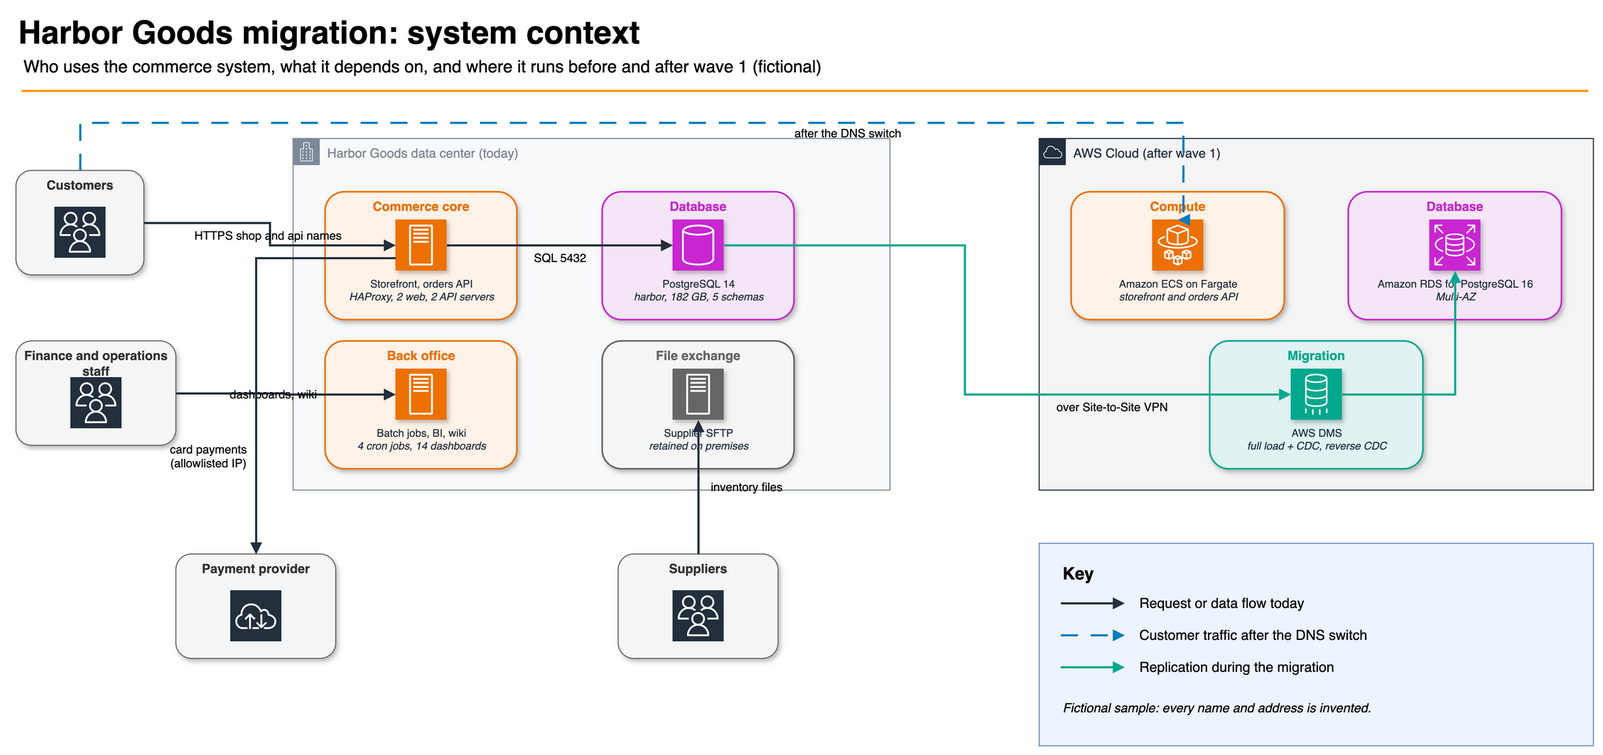
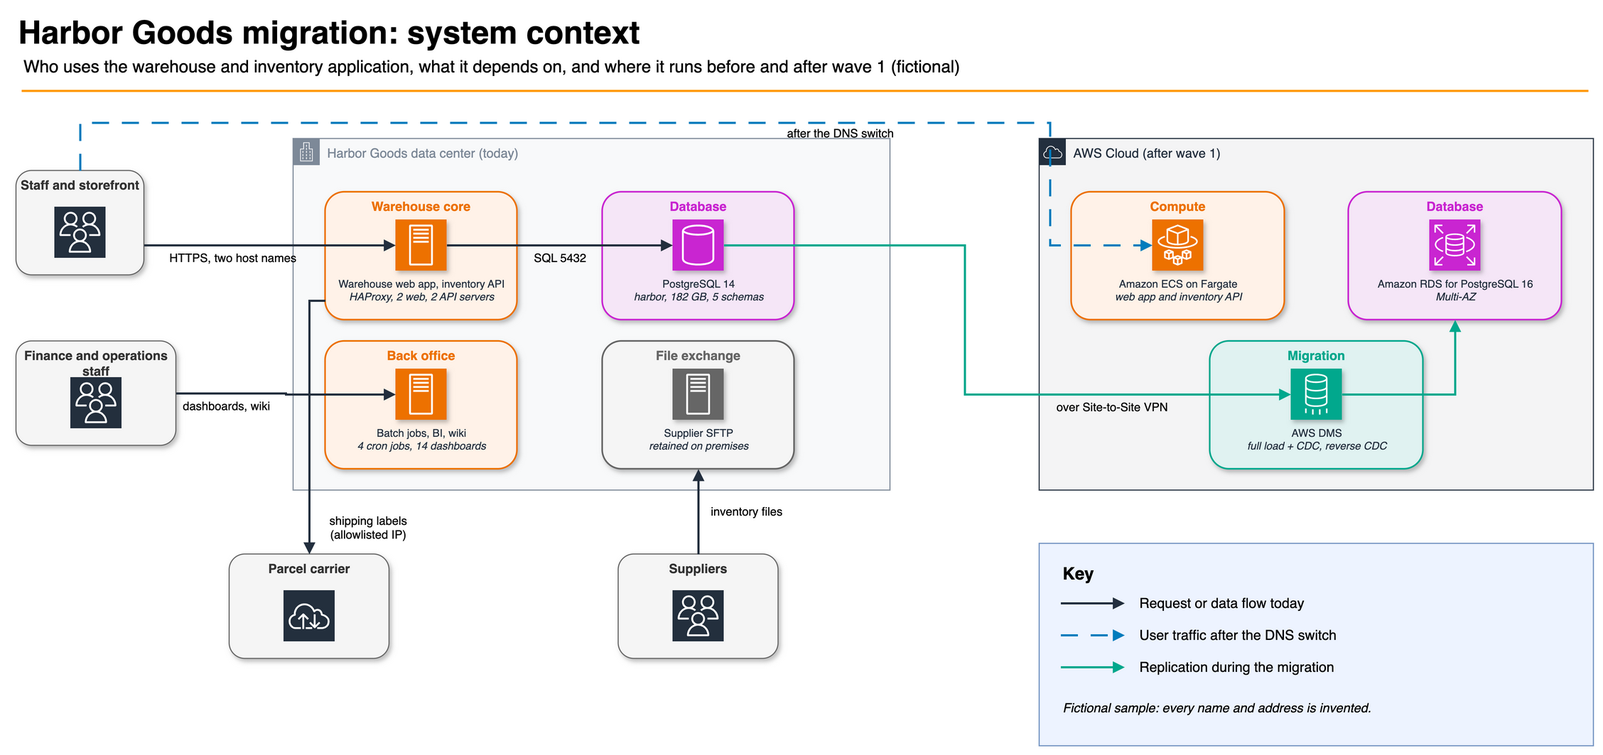
fix: migrate the warehouse and inventory application instead of the storefront
The storefront already runs on AWS in the portfolio scenario. Wave 1 now moves
the warehouse web app, the inventory API and PostgreSQL 14: renamed hosts,
applications, the shipping schema, the parcel carrier allowlist, smoke tests,
acceptance criteria and diagrams, with regenerated evidence. Production mock
ARNs use the production example account 111122223333, the Terraform floor is
>= 1.11.0, < 2.0.0, and the system context diagram no longer routes arrows
through labels.

diff --git a/tests/test_runbook.py b/tests/test_runbook.py
@@ -97,7 +97,7 @@ def test_missing_section_stops_the_other_rules(sandbox) -> None:
             "RUN-14",
             id="reverse-task-not-started",
         ),
-        pytest.param(RUNBOOK, "| P-04 | EXT-PAYMENTS: the", "| P-04 | The", "RUN-15", id="payment-allowlist-forgotten"),
+        pytest.param(RUNBOOK, "| P-04 | EXT-CARRIER: the", "| P-04 | The", "RUN-15", id="carrier-allowlist-forgotten"),
         pytest.param(
             "runbooks/acceptance-criteria.md",
             "| <= 30 min |",

diff --git a/runbooks/wave-1-cutover.md b/runbooks/wave-1-cutover.md
@@ -1,4 +1,4 @@
-# Wave 1 cutover runbook: Harbor Goods commerce core
+# Wave 1 cutover runbook: Harbor Goods warehouse core
 
 > Fictional sample. Harbor Goods, its servers, addresses and people are invented; account and network values are
 > AWS documentation examples. `scripts/check_runbook.py` validates this file's structure and its consistency with
@@ -6,9 +6,10 @@
 
 ## Scope
 
-Wave 1 moves the storefront (SRV-03, SRV-04), the orders API (SRV-05, SRV-06), the HAProxy pair (SRV-01, SRV-02)
-and the PostgreSQL primary (SRV-07) to AWS, and retires the streaming replica (SRV-08) at the end of hypercare.
-Customers reach `shop.example.com` and `api.example.com`; both names move together.
+Wave 1 moves the warehouse web app (SRV-03, SRV-04), the inventory API (SRV-05, SRV-06), the HAProxy pair (SRV-01,
+SRV-02) and the PostgreSQL primary (SRV-07) to AWS, and retires the streaming replica (SRV-08) at the end of hypercare.
+Warehouse staff and handheld scanners reach `warehouse.example.com`; the storefront, which already runs on AWS, reaches
+the inventory API at `api.example.com`. Both names move together.
 
 - Window: Sunday 00:30 to 04:30 US Central time. T-0 is 02:00, the start of the write freeze.
 - Write-freeze budget: 30 minutes (`max_write_freeze_minutes` in `data/synthetic/applications.csv`).
@@ -22,10 +23,10 @@ Customers reach `shop.example.com` and `api.example.com`; both names move togeth
 | --- | --- | --- |
 | CL | Cutover lead | Runs the bridge call, keeps the timeline, calls every go/no-go and rollback |
 | DBA | Database administrator | DMS tasks, validation queries, sequences, database roles |
-| APP | Application owner | Images, maintenance mode, smoke tests, payment checks |
+| APP | Application owner | Images, maintenance mode, smoke tests, carrier label checks |
 | NET | Network engineer | VPN, Route 53, load balancer |
 | OPS | Operations engineer | Scheduled jobs, batch and BI servers |
-| BIZ | Business approver | Approves the window and the go-live; owns customer communication |
+| BIZ | Business approver | Approves the window and the go-live; owns communication to warehouse staff and the storefront team |
 
 ## Prerequisites
 
@@ -36,14 +37,14 @@ Every prerequisite is closed, with its evidence linked in the change record, bef
 | P-01 | `example.com` is hosted in Route 53 and its delegation answers from the Route 53 name servers | NET | T-14d | `dig NS example.com` output |
 | P-02 | Both Site-to-Site VPN tunnels are up, and `aws dms test-connection` succeeds from the replication instance to SRV-07 | NET | T-14d | Tunnel status and test-connection result |
 | P-03 | The target environment is applied with default weights (onprem 100, aws 0), a fresh `terraform plan` shows no changes, and the `alb_dns_name` and `alb_zone_id` outputs are copied into the change record for the break-glass path | CL | T-10d | Plan output in the change record |
-| P-04 | EXT-PAYMENTS: the payment provider allowlists the NAT gateway addresses from `terraform output nat_public_ips` next to the current egress address | APP | T-10d | Provider confirmation |
+| P-04 | EXT-CARRIER: the parcel carrier allowlists the NAT gateway addresses from `terraform output nat_public_ips` next to the current egress address | APP | T-10d | Provider confirmation |
 | P-05 | EXT-NAS: the backup owner accepts RDS automated backups (14 days) plus the final dump in C-07 in place of the nightly NAS dump (JOB-03) | DBA | T-10d | Signed backup plan |
 | P-06 | `wal_level = logical` on SRV-07; `dms_user` exists on SRV-07 with REPLICATION and superuser (the reverse target sets `session_replication_role`) and on RDS with the `rds_replication` and `rds_superuser` roles; both DMS secrets hold host, port, username and password | DBA | T-10d | `SHOW wal_level`, secret versions present |
 | P-07 | Manual steps M-01 (schema from `pg_dump --schema-only`) and M-04 (roles, grants, application secret) are done on RDS | DBA | T-8d | Schema diff with zero differences |
 | P-08 | The forward task `harbor-wave1-full-load-cdc` started at T-7d, finished its full load and has streamed changes since | DBA | T-5d | `aws dms describe-replication-tasks` status |
 | P-09 | A full rehearsal on a restored copy measured the write freeze and closed every issue it found | CL | T-5d | Rehearsal log with timings |
 | P-10 | Web and API images are built, scanned and pinned by digest, and their smoke tests pass against RDS in read-only mode | APP | T-3d | CI run and smoke report |
-| P-11 | BIZ approves the window; the maintenance banner and customer notice are scheduled | BIZ | T-3d | Approved change record |
+| P-11 | BIZ approves the window; the maintenance banner and the notice to warehouse staff are scheduled | BIZ | T-3d | Approved change record |
 | P-12 | Dashboards and alarms exist for ALB 5xx and latency, RDS CPU and connections, and DMS `CDCLatencySource` and `CDCLatencyTarget` | NET | T-3d | Dashboard link |
 | P-13 | The rollback path was rehearsed: reverse task started and stopped on the rehearsal copy, weight flip tested on `cutover-test.example.com` | CL | T-3d | Rehearsal log |
 
@@ -54,14 +55,14 @@ procedure that applies if the step fails.
 
 | ID | T-offset | Duration (min) | Owner | Action | Verification | Rollback |
 | --- | --- | --- | --- | --- | --- | --- |
-| C-01 | T-72h | 15 | NET | Lower the TTL of `shop.example.com` and `api.example.com` from 3600 to 60 seconds | Authoritative answer shows TTL 60 | R-01 |
+| C-01 | T-72h | 15 | NET | Lower the TTL of `warehouse.example.com` and `api.example.com` from 3600 to 60 seconds | Authoritative answer shows TTL 60 | R-01 |
 | C-02 | T-48h | 20 | NET | Convert both names to weighted pairs with `runbooks/dns/convert-to-weighted.json`, import the onprem members, then apply the aws members at weight 0 | `terraform plan` shows no changes; both names still answer 203.0.113.x | R-01 |
 | C-03 | T-24h | 30 | DBA | Export the history of `audit.request_log` (excluded from DMS) with `pg_dump` to a private Amazon S3 bucket encrypted with SSE-KMS | Object row count equals `SELECT count(*)` on SRV-07 | R-01 |
 | C-04 | T-24h | 10 | CL | Go/no-go checkpoint 1: criteria G-01 and G-04 | Decision recorded in the change record | R-01 |
 | C-05 | T-90m | 10 | CL | Open the bridge call and confirm every role is present | Roll call logged | R-01 |
 | C-06 | T-80m | 5 | OPS | Disable JOB-01 and JOB-02 on SRV-09, JOB-03 on SRV-07 and JOB-04 on SRV-10 (comment out the crontab lines) | `crontab -l` shows the four lines commented | R-01 |
 | C-07 | T-70m | 55 | DBA | Take a final `pg_dump` of `harbor` to the backup NAS as the offline safety copy | Dump finishes; size within 5 percent of the last JOB-03 run | R-01 |
-| C-08 | T-30m | 5 | APP | Show the maintenance banner announcing a short read-only period | Banner visible on `shop.example.com` | R-01 |
+| C-08 | T-30m | 5 | APP | Show the maintenance banner announcing a short read-only period | Banner visible on `warehouse.example.com` | R-01 |
 | C-09 | T-10m | 10 | CL | Go/no-go checkpoint 2: criteria G-02, G-03 and G-05 | Decision recorded; BIZ confirms | R-01 |
 | C-10 | T-0 | 2 | APP | Start the write freeze: HAProxy serves the maintenance page for both names, and the API stops on SRV-05 and SRV-06 | V-01 returns 0 application sessions | R-02 |
 | C-11 | T+02m | 3 | DBA | Confirm no writes reach SRV-07 and record `pg_current_wal_lsn()` | V-01 returns 0; LSN written in the log | R-02 |
@@ -69,12 +70,12 @@ procedure that applies if the step fails.
 | C-13 | T+08m | 2 | DBA | Stop the forward task `harbor-wave1-full-load-cdc` and drop its replication slot on SRV-07, so SRV-07 does not keep WAL for seven days | Task status `stopped`; `pg_replication_slots` on SRV-07 shows no DMS slot | R-02 |
 | C-14 | T+10m | 4 | DBA | Run manual steps M-02 (reset sequences with V-05), M-05 (copy the newest `audit.request_log` rows) and M-03 (`ANALYZE`) on RDS | V-05 returns no sequence behind its table | R-02 |
 | C-15 | T+14m | 4 | DBA | Run validation queries V-02, V-03 and V-04 on SRV-07 and RDS and compare | Every count and checksum matches | R-02 |
-| C-16 | T+18m | 2 | DBA | Start the reverse task `harbor-wave1-reverse-cdc` with no start position, before any customer write lands on AWS; DMS creates its slot at the current RDS position, and writes are frozen, so nothing is missed | Task status `running`; V-07 returns 0 | R-02 |
+| C-16 | T+18m | 2 | DBA | Start the reverse task `harbor-wave1-reverse-cdc` with no start position, before any user write lands on AWS; DMS creates its slot at the current RDS position, and writes are frozen, so nothing is missed | Task status `running`; V-07 returns 0 | R-02 |
 | C-17 | T+20m | 4 | APP | Run the smoke tests against the load balancer with `curl --resolve` for both names, including one test order that is then cancelled | 12 of 12 tests in `runbooks/smoke-tests.md` pass | R-02 |
 | C-18 | T+24m | 1 | CL | Go/no-go checkpoint 3: criteria G-06, G-07 and G-08 | Decision recorded; BIZ confirms go-live | R-02 |
 | C-19 | T+25m | 2 | NET | DNS switch: apply `traffic_weights = { onprem = 0, aws = 100 }` (see DNS switch) | Both names resolve to the load balancer; freeze ends | R-03 |
 | C-20 | T+27m | 3 | OPS | Repoint SRV-09 and SRV-10 to the RDS endpoint, re-enable JOB-01 and JOB-02, resume JOB-04; JOB-03 stays off for good | Test connections from SRV-09 and SRV-10 succeed over the VPN | R-03 |
-| C-21 | T+30m | 30 | APP | Watch the first 30 minutes of live traffic: errors, latency, orders and payments | Rollback triggers T-05 and T-06 stay below their thresholds | R-03 |
+| C-21 | T+30m | 30 | APP | Watch the first 30 minutes of live traffic: errors, latency, orders and shipping labels | Rollback triggers T-05 and T-06 stay below their thresholds | R-03 |
 | C-22 | T+60m | 5 | CL | Remove the banner, announce go-live and start seven days of hypercare | Announcement sent | R-03 |
 | C-23 | T+7d | 30 | CL | Close hypercare: confirm the acceptance criteria, stop the reverse task, delete the DMS resources and schedule the decommissioning of SRV-01 to SRV-08 | Every criterion in `runbooks/acceptance-criteria.md` met | none |
 
@@ -112,9 +113,9 @@ terraform output active_target   # aws
 Check from outside the data center:
 
 ```bash
-dig +short shop.example.com
+dig +short warehouse.example.com
 dig +short api.example.com
-curl -sS -o /dev/null -w '%{http_code}\n' https://shop.example.com/healthz
+curl -sS -o /dev/null -w '%{http_code}\n' https://warehouse.example.com/healthz
 ```
 
 Break-glass path, if Terraform is unavailable: render `runbooks/dns/change-batch.json.tpl` for the target side
@@ -141,7 +142,7 @@ SRV-07 and RDS and compare the output with `diff`.
 | --- | --- | --- | --- |
 | V-01 | Application sessions still connected | SRV-07 | 0 rows |
 | V-02 | Exact row count of every migrated table | SRV-07 and RDS | Identical output |
-| V-03 | Checksum of the last seven days of orders and order lines | SRV-07 and RDS | Identical output |
+| V-03 | Checksum of the last seven days of fulfillment orders and order lines | SRV-07 and RDS | Identical output |
 | V-04 | Highest order ID and newest order timestamp | SRV-07 and RDS | Identical output |
 | V-05 | Sequences whose value is behind the highest ID in their table | RDS | 0 rows |
 | V-06 | Newest order on each side after the switch | SRV-07 and RDS | Same order ID within 60 s |
@@ -158,14 +159,14 @@ Any trigger that fires starts the listed procedure. CL may roll back without a t
 | T-03 | Smoke tests fail | < 12 of 12 passed | Smoke test report | During the freeze | R-02 |
 | T-04 | Write freeze overruns | > 30 min since C-10 without a DNS switch | Bridge log | During the freeze | R-02 |
 | T-05 | Error rate after the switch | ALB 5xx > 2 percent for 5 min | CloudWatch alarm | Hypercare | R-03 |
-| T-06 | Payments fail after the switch | success rate < 95 percent for 10 min | Payment dashboard | Hypercare | R-03 |
+| T-06 | Shipping labels fail after the switch | label success rate < 95 percent for 10 min | Carrier API dashboard | Hypercare | R-03 |
 | T-07 | Orders lost or duplicated | >= 1 confirmed case | V-06 and support tickets | Hypercare | R-03 |
 
 ## Rollback procedures
 
 ### R-01 Abort before the write freeze
 
-Decision owner: CL. Time to complete: 15 min. Customers see no change.
+Decision owner: CL. Time to complete: 15 min. Users see no change.
 
 1. Announce the no-go on the bridge and record the failed criterion.
 2. OPS re-enables JOB-01, JOB-02, JOB-03 and JOB-04; APP removes the banner if it is showing.
@@ -174,7 +175,7 @@ Decision owner: CL. Time to complete: 15 min. Customers see no change.
 
 ### R-02 Roll back during the write freeze
 
-Decision owner: CL. Time to complete: 15 min. No customer has written to AWS yet.
+Decision owner: CL. Time to complete: 15 min. No user has written to AWS yet.
 
 1. DBA stops the reverse task if C-16 started it: `aws dms stop-replication-task` on `harbor-wave1-reverse-cdc`.
 2. NET confirms `terraform output active_target` still returns `onprem`; if C-19 ran, use R-03 instead.
@@ -185,7 +186,7 @@ Decision owner: CL. Time to complete: 15 min. No customer has written to AWS yet
 
 ### R-03 Roll back after the DNS switch
 
-Decision owner: CL with BIZ. Time to complete: 25 min, within the 30-minute RTO. Orders placed on AWS are kept,
+Decision owner: CL with BIZ. Time to complete: 25 min, within the 30-minute RTO. Orders written on AWS are kept,
 because the reverse task has copied them to SRV-07.
 
 1. APP puts AWS in maintenance: a priority-1 listener rule on the HTTPS listener returns a fixed 503 page.

diff --git a/runbooks/smoke-tests.md b/runbooks/smoke-tests.md
@@ -1,28 +1,28 @@
 # Smoke tests for the wave 1 cutover
 
 Run at C-17, before the DNS switch, against the load balancer. `curl --resolve` sends each request to the
-load balancer while keeping the real host name, so TLS and host routing are tested as customers will see them:
+load balancer while keeping the real host name, so TLS and host routing are tested as users will see them:
 
 ```bash
 ALB_IP="$(dig +short "$(terraform output -raw alb_dns_name)" | head -1)"
-curl -sS --resolve "shop.example.com:443:$ALB_IP" https://shop.example.com/healthz
+curl -sS --resolve "warehouse.example.com:443:$ALB_IP" https://warehouse.example.com/healthz
 ```
 
-The test customer `smoke-test@example.com` exists in production, is excluded from reporting, and its credentials live in
-Secrets Manager. Go/no-go criterion
-G-07 requires every test to pass.
+The service account `smoke-test` exists in production, is excluded from reporting, and its credentials live in Secrets
+Manager. Its test orders carry a test flag, so they are never released to the warehouse floor. Go/no-go criterion G-07
+requires every test to pass.
 
 | ID | Host | Test | Pass condition |
 | --- | --- | --- | --- |
-| S-01 | shop.example.com | `GET /healthz` | HTTP 200 |
-| S-02 | shop.example.com | `GET /` | HTTP 200 and the page title contains "Harbor Goods" |
-| S-03 | shop.example.com | `GET /catalog/bestsellers` | HTTP 200 and at least 20 products |
-| S-04 | shop.example.com | `http://` request on port 80 | HTTP 301 to the same path over HTTPS |
+| S-01 | warehouse.example.com | `GET /healthz` | HTTP 200 |
+| S-02 | warehouse.example.com | `GET /` | HTTP 200 and the page title contains "Harbor Goods" |
+| S-03 | warehouse.example.com | `GET /locations?zone=A` | HTTP 200 and at least 20 bin locations |
+| S-04 | warehouse.example.com | `http://` request on port 80 | HTTP 301 to the same path over HTTPS |
 | S-05 | api.example.com | `GET /actuator/health` | HTTP 200 and `"status":"UP"` |
-| S-06 | api.example.com | `GET /v1/products/HG-10001` | HTTP 200 and the price equals the value on SRV-07 |
-| S-07 | api.example.com | Sign in as the test customer | HTTP 200 and a session token |
-| S-08 | api.example.com | `GET /v1/customers/me/orders` for the test customer | HTTP 200 and the same order count as on SRV-07 |
-| S-09 | api.example.com | Place a test order paid with the test customer's store credit (no card is charged) | HTTP 201 and a new order ID above the V-04 maximum |
-| S-10 | api.example.com | Reach the payment provider's status endpoint from a task, through the NAT addresses | HTTP 200, proving the allowlist from P-04 is in place |
+| S-06 | api.example.com | `GET /v1/stock/HG-10001` | HTTP 200 and the on-hand quantity equals the value on SRV-07 |
+| S-07 | api.example.com | Sign in as the `smoke-test` service account | HTTP 200 and a session token |
+| S-08 | api.example.com | `GET /v1/orders?client=smoke-test` | HTTP 200 and the same order count as on SRV-07 |
+| S-09 | api.example.com | Create a test fulfillment order for one unit of `HG-10001` | HTTP 201 and a new order ID above the V-04 maximum |
+| S-10 | api.example.com | Reach the parcel carrier's status endpoint from a task, through the NAT addresses | HTTP 200, proving the allowlist from P-04 is in place |
 | S-11 | api.example.com | Cancel the test order | HTTP 200 and status "cancelled" |
 | S-12 | both | TLS certificate | Issued by Amazon, valid for both names, not expiring within 30 days |

diff --git a/runbooks/acceptance-criteria.md b/runbooks/acceptance-criteria.md
@@ -5,12 +5,12 @@ BIZ signs. Baselines come from the discovery period on the data center.
 
 | ID | Area | Criterion | Threshold | Measured by | When |
 | --- | --- | --- | --- | --- | --- |
-| A-01 | Availability | Synthetic checks on `shop.example.com` and `api.example.com` succeed | >= 99.9 percent of checks over 7 days | CloudWatch Synthetics canary every 5 min | Hypercare |
-| A-02 | Latency | Orders API p95 target response time | <= 350 ms (baseline 310 ms on premises) | ALB `TargetResponseTime` p95, daily | Hypercare |
+| A-01 | Availability | Synthetic checks on `warehouse.example.com` and `api.example.com` succeed | >= 99.9 percent of checks over 7 days | CloudWatch Synthetics canary every 5 min | Hypercare |
+| A-02 | Latency | Inventory API p95 target response time | <= 350 ms (baseline 310 ms on premises) | ALB `TargetResponseTime` p95, daily | Hypercare |
 | A-03 | Errors | Share of requests answered with 5xx | < 0.5 percent per day | ALB `HTTPCode_Target_5XX_Count` over `RequestCount` | Hypercare |
-| A-04 | Data | Rows and checksums at cutover, and orders lost or duplicated since | = 0 differences in V-02 to V-04; = 0 confirmed cases | Validation log and support tickets | C-15 and hypercare |
+| A-04 | Data | Rows and checksums at cutover, and fulfillment orders lost or duplicated since | = 0 differences in V-02 to V-04; = 0 confirmed cases | Validation log and support tickets | C-15 and hypercare |
 | A-05 | Downtime | Actual write freeze from C-10 to C-19 | <= 30 min | Bridge log | Cutover night |
-| A-06 | Payments | Payment authorization success rate | >= 98 percent per day (baseline 98.6 percent) | Payment provider dashboard | Hypercare |
+| A-06 | Shipping labels | Carrier label request success rate | >= 98 percent per day (baseline 98.6 percent) | Carrier API dashboard | Hypercare |
 | A-07 | Recovery | Point-in-time restore of RDS to a scratch instance | <= 60 min to a usable instance, then deleted | Restore drill log | Day 3 of hypercare |
 | A-08 | Batch | JOB-01 and JOB-02 finish over the hybrid link | = 3 of 3 nights; row-count difference <= 1 percent of baseline | Job logs on SRV-09 | Hypercare |
 | A-09 | Security | Database exposure and scanner results | = 0 public endpoints on RDS; = 0 failed Checkov checks | `make verify`, AWS Config rule `rds-instance-public-access-check` | C-23 |

diff --git a/evidence/E-01-inventory.md b/evidence/E-01-inventory.md
@@ -6,17 +6,17 @@
 - Servers: 12 across 8 applications.
 - Capacity: 72 vCPU, 216 GB RAM, 3320 GB disk.
 - Database: PostgreSQL 14.11, 182.0 GB in 5 schemas, 55 tables.
-- Dependencies: 23 connections, 5 outside parties (EXT-CUSTOMERS, EXT-NAS, EXT-PAYMENTS, EXT-STAFF, EXT-SUPPLIERS).
+- Dependencies: 23 connections, 5 outside parties (EXT-CARRIER, EXT-NAS, EXT-STAFF, EXT-SUPPLIERS, EXT-USERS).
 - Scheduled jobs: 4; public or internal DNS names: 4.
 
 | Server | Host | App | Software | vCPU | RAM GB | CPU p95 | Mem p95 |
 | --- | --- | --- | --- | --- | --- | --- | --- |
 | SRV-01 | hg-lb-01 | APP-EDGE | HAProxy 2.4 | 2 | 4 | 14% | 31% |
 | SRV-02 | hg-lb-02 | APP-EDGE | HAProxy 2.4 | 2 | 4 | 9% | 30% |
-| SRV-03 | hg-web-01 | APP-STORE | nginx 1.24 + Node.js 20 storefront | 4 | 8 | 18% | 22% |
-| SRV-04 | hg-web-02 | APP-STORE | nginx 1.24 + Node.js 20 storefront | 4 | 8 | 17% | 21% |
-| SRV-05 | hg-api-01 | APP-ORDERS | Java 17 Spring Boot orders API | 8 | 16 | 20% | 30% |
-| SRV-06 | hg-api-02 | APP-ORDERS | Java 17 Spring Boot orders API | 8 | 16 | 19% | 29% |
+| SRV-03 | hg-web-01 | APP-WEB | nginx 1.24 + Node.js 20 warehouse web app | 4 | 8 | 18% | 22% |
+| SRV-04 | hg-web-02 | APP-WEB | nginx 1.24 + Node.js 20 warehouse web app | 4 | 8 | 17% | 21% |
+| SRV-05 | hg-api-01 | APP-API | Java 17 Spring Boot inventory API | 8 | 16 | 20% | 30% |
+| SRV-06 | hg-api-02 | APP-API | Java 17 Spring Boot inventory API | 8 | 16 | 19% | 29% |
 | SRV-07 | hg-db-01 | APP-DB | PostgreSQL 14.11 | 16 | 64 | 38% | 80% |
 | SRV-08 | hg-db-02 | APP-DB | PostgreSQL 14.11 streaming replica | 16 | 64 | 12% | 58% |
 | SRV-09 | hg-batch-01 | APP-BATCH | cron jobs (Python 3.9 and shell) | 4 | 8 | 6% | 25% |

diff --git a/infra/terraform/modules/app/README.md b/infra/terraform/modules/app/README.md
@@ -1,8 +1,8 @@
 # Module: app
 
-Application Load Balancer and two ECS Fargate services (the storefront and the orders API) that replace the HAProxy
-pair and four application servers. Port 80 redirects to HTTPS, tasks run in private subnets as a non-root user on a
-read-only file system, images must be pinned by digest, and deployments roll back on their own. Tests:
+Application Load Balancer and two ECS Fargate services (the warehouse web app and the inventory API) that replace the
+HAProxy pair and four application servers. Port 80 redirects to HTTPS, tasks run in private subnets as a non-root user
+on a read-only file system, images must be pinned by digest, and deployments roll back on their own. Tests:
 `tests/app.tftest.hcl`.
 
 <!-- BEGIN_TF_DOCS -->
@@ -10,7 +10,7 @@ read-only file system, images must be pinned by digest, and deployments roll bac
 
 | Name | Version |
 | ---- | ------- |
-| terraform | >= 1.9.0 |
+| terraform | >= 1.11.0, < 2.0.0 |
 | aws | >= 6.0, < 7.0 |
 
 ## Providers

diff --git a/infra/terraform/modules/network/README.md b/infra/terraform/modules/network/README.md
@@ -10,7 +10,7 @@ Tests: `tests/network.tftest.hcl`.
 
 | Name | Version |
 | ---- | ------- |
-| terraform | >= 1.9.0 |
+| terraform | >= 1.11.0, < 2.0.0 |
 | aws | >= 6.0, < 7.0 |
 
 ## Providers
@@ -70,7 +70,7 @@ Tests: `tests/network.tftest.hcl`.
 | ---- | ----------- |
 | app\_subnet\_ids | Application subnets, one per Availability Zone (ECS tasks and the DMS replication instance). |
 | data\_subnet\_ids | Data subnets without an internet route, one per Availability Zone (RDS). |
-| nat\_public\_ips | Egress addresses the payment provider must allowlist before cutover. |
+| nat\_public\_ips | Egress addresses the parcel carrier must allowlist before cutover. |
 | public\_subnet\_ids | Public subnets, one per Availability Zone (ALB and NAT gateways). |
 | vpc\_cidr | CIDR block of the target VPC. |
 | vpc\_id | ID of the target VPC. |

diff --git a/migration/dms/README.md b/migration/dms/README.md
@@ -7,7 +7,7 @@ with `file()`, so the JSON here is exactly what gets deployed.
 | --- | --- | --- |
 | `table-mappings.json` | both tasks | Selects the five schemas and excludes `audit.request_log`, which has no primary key |
 | `task-settings-forward.json` | `harbor-wave1-full-load-cdc` | Full load, then change data capture from the data center to RDS, with row-level validation |
-| `task-settings-reverse.json` | `harbor-wave1-reverse-cdc` | Change data capture from RDS back to the data center, started at cutover so a rollback keeps new orders |
+| `task-settings-reverse.json` | `harbor-wave1-reverse-cdc` | Change data capture from RDS back to the data center, started at cutover so a rollback keeps new fulfillment orders |
 
 Choices worth knowing:
 

diff --git a/data/synthetic/README.md b/data/synthetic/README.md
@@ -1,8 +1,8 @@
 # Synthetic discovery data
 
-Fictional discovery export for **Harbor Goods**, a mid-size retailer that runs its online store in one on-premises
-data center. The files mimic what agent-based discovery and a DBA questionnaire return. No row describes a real
-system.
+Fictional discovery export for **Harbor Goods**, a fictional mid-size retailer. It covers the warehouse and inventory
+application, which still runs on virtual machines in a colocation data center. The files mimic what agent-based
+discovery and a DBA questionnaire return. No row describes a real system.
 
 | File | Content | Typical real source |
 | --- | --- | --- |

diff --git a/evidence/E-05-dms-coverage.md b/evidence/E-05-dms-coverage.md
@@ -12,7 +12,7 @@
 | Schema | Tables | Size GB | Largest LOB KB | Changes MB/h | Excluded (no primary key) |
 | --- | --- | --- | --- | --- | --- |
 | catalog | 14 | 9.4 | 0 | 6 | none |
-| customers | 9 | 21.7 | 0 | 18 | none |
+| shipping | 9 | 21.7 | 0 | 18 | none |
 | orders | 18 | 96.3 | 38 | 310 | none |
 | inventory | 11 | 14.8 | 0 | 74 | none |
 | audit | 3 | 39.8 | 22 | 95 | audit.request_log |

diff --git a/infra/terraform/modules/database/README.md b/infra/terraform/modules/database/README.md
@@ -9,7 +9,7 @@ after the DNS switch. On-premises clients are limited to single hosts. Tests: `t
 
 | Name | Version |
 | ---- | ------- |
-| terraform | >= 1.9.0 |
+| terraform | >= 1.11.0, < 2.0.0 |
 | aws | >= 6.0, < 7.0 |
 
 ## Providers

diff --git a/infra/terraform/modules/dms/README.md b/infra/terraform/modules/dms/README.md
@@ -9,7 +9,7 @@ Secrets Manager and neither task starts on apply. Tests: `tests/dms.tftest.hcl`.
 
 | Name | Version |
 | ---- | ------- |
-| terraform | >= 1.9.0 |
+| terraform | >= 1.11.0, < 2.0.0 |
 | aws | >= 6.0, < 7.0 |
 
 ## Providers
